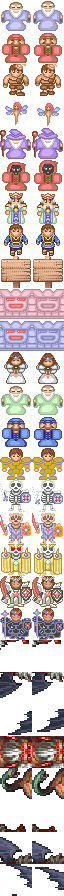
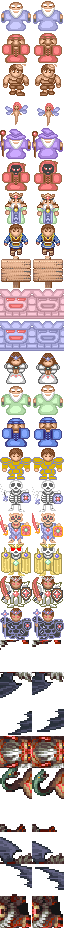
实现npc穷奇

diff --git a/project/icons.js b/project/icons.js
@@ -130,7 +130,8 @@ var icons_4665ee12_3a1f_44a4_bea3_0fccba634dc1 =
 		"N1624": 24,
 		"N1625": 25,
 		"N1626": 26,
-		"N1627": 27
+		"N1627": 27,
+		"N1628": 28
 	},
 	"npc48": {
 		"npc0": 0,

diff --git a/project/maps.js b/project/maps.js
@@ -1520,5 +1520,6 @@ var maps_90f36752_8815_4be8_b32b_d7fad1d0542e =
 	"1624": {"cls":"npcs","id":"N1624"},
 	"1625": {"cls":"npcs","id":"N1625"},
 	"1626": {"cls":"npcs","id":"N1626"},
-	"1627": {"cls":"npcs","id":"N1627"}
+	"1627": {"cls":"npcs","id":"N1627"},
+	"1628": {"cls":"npcs","id":"N1628"}
 }